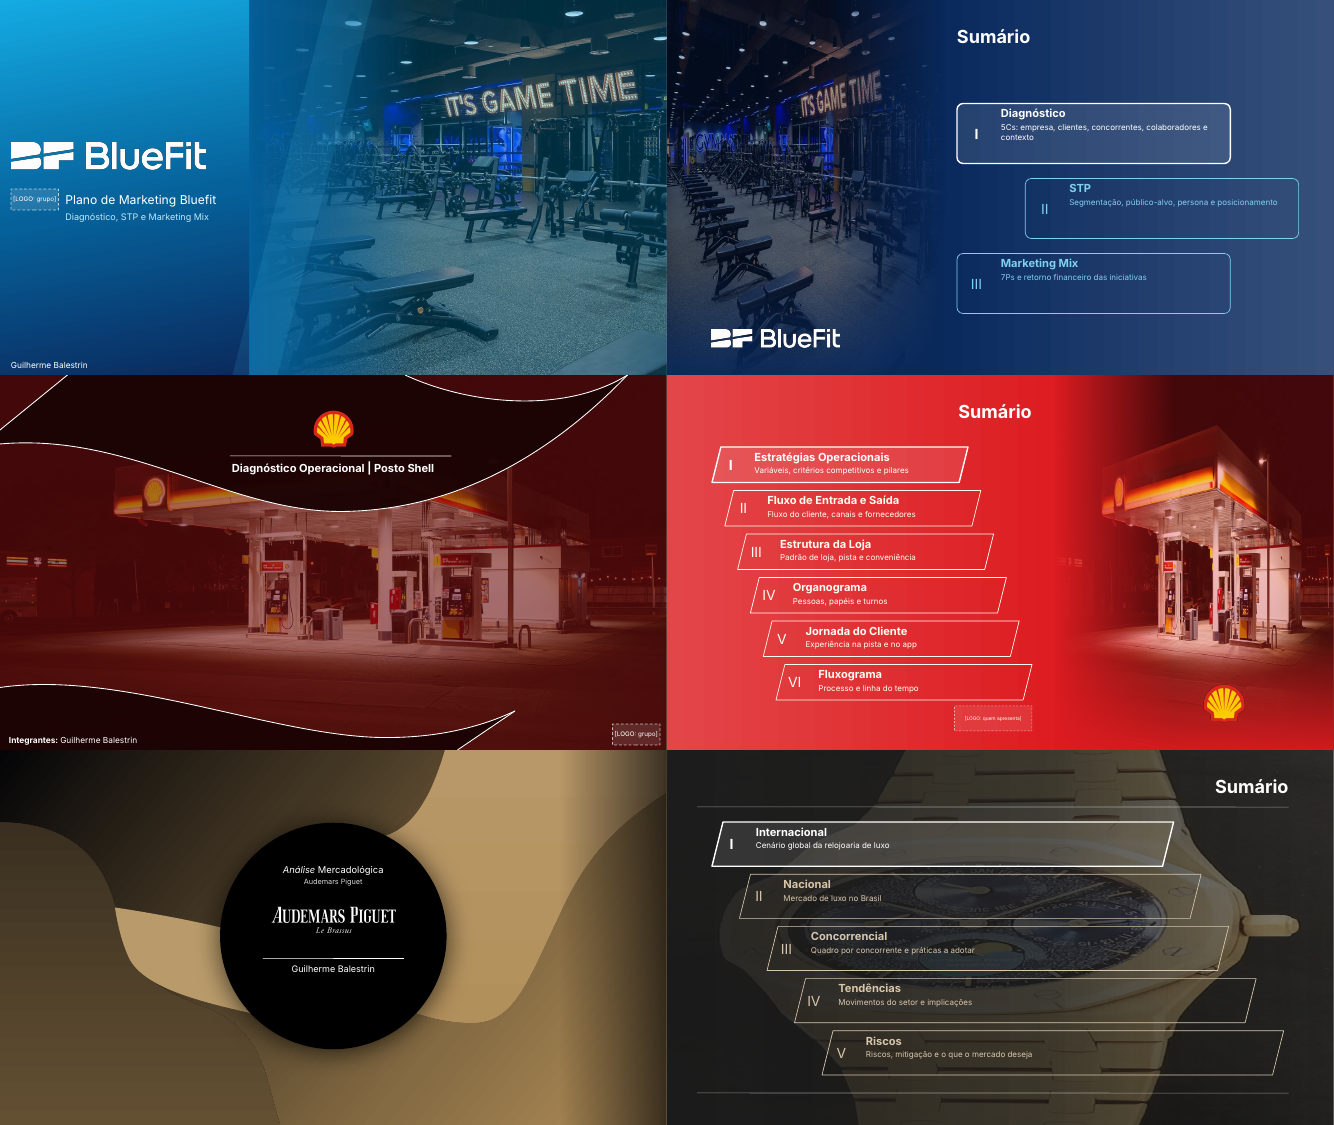
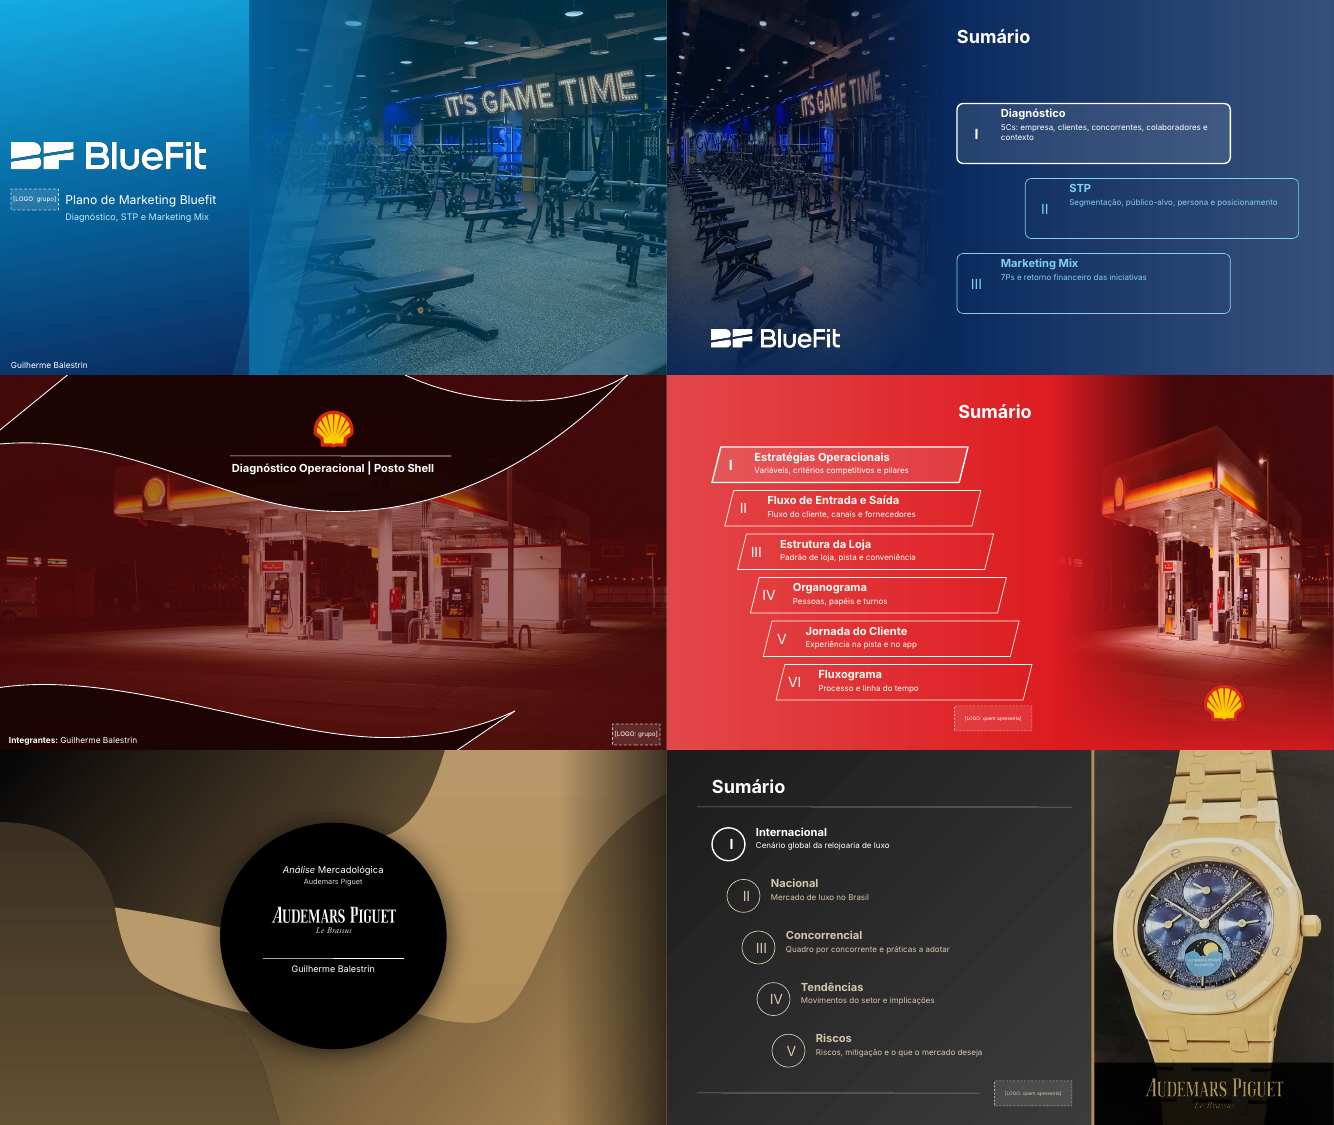
Sumario circulos liberado: montagem aprovada do Audemars Piguet vira fotoDireitaFio
- 'circulos' volta ao sorteio (o sumario AP em circulos foi aprovado)
- sumario_cores.js: composicao fotoDireitaFio (foto recortada a direita,
  fio fino na cor dominante, logo em faixa escura), so com circulos
- sorteio.js: fotoDireitaFio com peso dobrado quando o estilo e circulos;
  build recusa fotoDireitaFio com pilulas (reprovado no Bluefit)
- referencia aprovada em assets/referencias/sumario/aprovado_ap_circulos_foto.jpg
- contraexemplos: sumario_reprovado_bluefit_pilulas_foto.png e
  sumario_reprovado_ap_fotofundo.png
- SKILL.md, sumarios_popups, vetos, aprendizados e INDICE atualizados
- validar_sumarios.js cobre circulos (1235 geometrias)
- testes_capas_sumarios: AP restaurado para a versao aprovada

Claude-Session: https://claude.ai/code/session_0164y2FuiCoqw85EA6DjKRYY

Changed region(s): [[0.5225, 0.6533, 1.0, 1.0], [0.5225, 0.6844, 0.584, 0.7156]]

diff --git a/scripts/sumario_cores.js b/scripts/sumario_cores.js
@@ -51,12 +51,16 @@ module.exports = function ({ pres, COR, F, formas, tom, cfg }) {
   // fotoEsquerda (imagem a esquerda, itens em arco a direita: kepl3_p010, ex_sumario), fotoDireita (itens a esquerda),
   // fotoFundo (foto em tela cheia com veu em degrade: mabg_p002) e cheio (sem foto: agrion_p002). A foto nunca termina
   // em corte seco: um degrade com transparencia a dissolve no fundo, e o fundo do lado da foto tem a mesma cor do degrade.
-  const COMPOSICOES = ['fotoEsquerda', 'fotoDireita', 'fotoFundo', 'cheio'];
+  // fotoDireitaFio (APROVADO 23/11/2026, deck Audemars Piguet com circulos: "tava perfeito"): foto recortada na direita a partir de
+  // x 8,55, fio fino vertical na cor dominante, logo da empresa numa faixa escura no pe da foto. Ver assets/referencias/sumario/aprovado_ap_circulos_foto.jpg.
+  // Com pilulas a mesma montagem foi REPROVADA (Bluefit): por isso o sorteio so a combina com circulos.
+  const COMPOSICOES = ['fotoEsquerda', 'fotoDireita', 'fotoDireitaFio', 'fotoFundo', 'cheio'];
   const XF_D = 7.75, XF_E = 5.55, FADE = 2.4;
   function geo(o) {
     const comp = o.foto ? o.composicao : 'cheio', m = o.moldura;
     const topo = m.titulo === 'nenhum' ? 0.75 : 1.44, base = m.logo || m.fios ? 6.5 : 6.9;
     if (comp === 'fotoDireita') return { comp, x0: 0.9, x1: XF_D - 0.45, topo, base };
+    if (comp === 'fotoDireitaFio') return { comp, x0: 0.9, x1: 8.55 - 0.45, topo, base };
     if (comp === 'fotoEsquerda') return { comp, x0: XF_E + 0.25, x1: W - 0.7, topo, base };
     return { comp, x0: 0.9, x1: W - 0.9, topo, base };
   }
@@ -67,6 +71,18 @@ module.exports = function ({ pres, COR, F, formas, tom, cfg }) {
   }
   function fundo(s, o, g) {
     if (g.comp === 'cheio') { grad(s, { x: 0, y: 0, w: W, h: H }, 45, [[0, P.a, 100], [100, P.b, 100]], 'sumesc'); return; }
+    if (g.comp === 'fotoDireitaFio') {   // montagem aprovada (AP): recorte limpo com fio, sem degrade
+      const XL = 8.55;
+      grad(s, { x: 0, y: 0, w: W, h: H }, 45, [[0, P.a, 100], [100, P.b, 100]], 'sumesc');
+      s.addImage({ path: o.foto, x: XL, y: 0, w: W - XL, h: H, sizing: { type: 'cover', w: W - XL, h: H }, objectName: 'SUM_foto' });
+      s.addShape(S.RECTANGLE, { x: XL - 0.06, y: 0, w: 0.06, h: H, fill: { color: o.corFio || COR.dom }, line: { type: 'none' }, objectName: 'SUM_fio_lateral' });
+      if (o.logoEmpresa && fs.existsSync(o.logoEmpresa)) {
+        s.addShape(S.RECTANGLE, { x: XL, y: H - 1.25, w: W - XL, h: 1.25, fill: { color: '000000', transparency: 12 }, line: { type: 'none' }, objectName: 'SUM_faixa_logo' });
+        const b = fs.readFileSync(o.logoEmpresa), ar = b.readUInt32BE(16) / b.readUInt32BE(20), lw = Math.min(W - XL - 0.9, 0.8 * ar), lh = lw / ar;
+        s.addImage({ path: o.logoEmpresa, x: XL + (W - XL - lw) / 2, y: H - 0.625 - lh / 2, w: lw, h: lh, objectName: 'SUM_logo_empresa' });
+      }
+      return;
+    }
     if (g.comp === 'fotoFundo') {
       s.addImage({ path: o.foto, x: 0, y: 0, w: W, h: H, sizing: { type: 'cover', w: W, h: H }, objectName: 'SUM_foto' });
       grad(s, { x: 0, y: 0, w: W, h: H }, 0, [[0, P.a, 94], [55, P.a, 82], [100, P.a, 45]], 'sumveu');   // denso onde esta o texto

diff --git a/scripts/sorteio.js b/scripts/sorteio.js
@@ -20,10 +20,11 @@ const OPCOES = {
   corCabecalho: ['dom', 'escuro'],
 };
 // sumarios de slide cheio, na cor fixa escolhida da paleta do projeto (sumario_cores.js), todos fieis a uma referencia (orizon_p012, agrion_p002, mabg_p002, vivara_p007)
-// VETADOS pelo usuario: 'cartoes' (16/11/2026: colunas altas so com numero e titulo, quase tudo vazio) e 'circulos' (22/11/2026: a
+// 'circulos' VOLTOU em 23/11/2026: o sumario Audemars Piguet em circulos com foto recortada a direita foi aprovado ("tava perfeito").
+// VETADO pelo usuario: 'cartoes' (16/11/2026: colunas altas so com numero e titulo, quase tudo vazio). Historico: 'circulos' foi vetado em 22/11/2026 (a
 // referencia orizon_p012 que deu origem a ele foi reprovada). Nao sao sorteados nem aceitos no config.
-const SUMARIOS = ['pilulas', 'paralelogramos'];
-const SUMARIOS_VETADOS = ['cartoes', 'circulos'];
+const SUMARIOS = ['pilulas', 'paralelogramos', 'circulos'];
+const SUMARIOS_VETADOS = ['cartoes'];
 // Feedback 23/11/2026: a foto do sumario nao fica sempre a direita, e titulo "Sumario", fios em cima/embaixo e logo nao sao obrigatorios.
 // Sorteados uma vez por deck (gravados em estilo_deck.json) e mantidos em todas as transicoes. Sem foto, a composicao vira 'cheio'.
 const COMPOSICOES_SUMARIO = ['fotoEsquerda', 'fotoDireita', 'fotoFundo'];
@@ -65,8 +66,11 @@ module.exports = function sortear(cfg, PROIB, cwd = process.cwd()) {
   r.origem.sumarios = pedido ? 'informado' : (r.estiloSumario === antigo ? 'mantido/migrado' : 'sorteado');
   r.todosSumarios = SUMARIOS;
   const comp = cfg.composicaoSumario;
-  if (comp && !COMPOSICOES_SUMARIO.concat('cheio').includes(comp)) throw new Error('composicaoSumario desconhecida: ' + comp + '. Use: ' + COMPOSICOES_SUMARIO.join(', ') + ', cheio');
-  r.composicaoSumario = comp || (COMPOSICOES_SUMARIO.includes(salvo.composicaoSumario) ? salvo.composicaoSumario : pick(COMPOSICOES_SUMARIO));
+  if (comp && !COMPOSICOES_SUMARIO.concat('cheio', 'fotoDireitaFio').includes(comp)) throw new Error('composicaoSumario desconhecida: ' + comp + '. Use: ' + COMPOSICOES_SUMARIO.join(', ') + ', cheio');
+  // fotoDireitaFio so com circulos (aprovado no AP; com pilulas foi reprovado no Bluefit); com circulos ela tem peso dobrado no sorteio
+  const compValidas = r.estiloSumario === 'circulos' ? COMPOSICOES_SUMARIO.concat('fotoDireitaFio', 'fotoDireitaFio') : COMPOSICOES_SUMARIO;
+  if (comp === 'fotoDireitaFio' && r.estiloSumario !== 'circulos') throw new Error('composicaoSumario fotoDireitaFio so com estiloSumario circulos (com pilulas foi reprovada).');
+  r.composicaoSumario = comp || (compValidas.includes(salvo.composicaoSumario) ? salvo.composicaoSumario : pick(compValidas));
   const ms = salvo.molduraSumario && TITULOS_SUMARIO.includes(salvo.molduraSumario.titulo) ? salvo.molduraSumario : null;
   r.molduraSumario = Object.assign({}, ms || { titulo: pick(TITULOS_SUMARIO), fios: Math.random() < 0.35, logo: Math.random() < 0.5 }, cfg.molduraSumario || {});
   if (!TITULOS_SUMARIO.includes(r.molduraSumario.titulo)) throw new Error('molduraSumario.titulo: ' + TITULOS_SUMARIO.join(', '));

diff --git a/scripts/validar_sumarios.js b/scripts/validar_sumarios.js
@@ -21,7 +21,7 @@ for(const style of engine.ESTILOS){
   }
 }
 // composicoes com foto e moldura opcional (23/11/2026): toda combinacao precisa caber sem sobrepor
-for(const style of ['pilulas','paralelogramos'])for(const composicao of engine.COMPOSICOES)
+for(const style of ['pilulas','paralelogramos','circulos'])for(const composicao of engine.COMPOSICOES)
   for(const titulo of ['esquerda','centro','direita','nenhum'])for(const logo of [true,false])for(let n=1;n<=10;n++){
     const g=engine.geo({foto:composicao==='cheio'?null:'x.jpg',composicao,moldura:{titulo,fios:false,logo}});
     const rects=engine.layout(style,n,g);

diff --git a/SKILL.md b/SKILL.md
@@ -153,13 +153,13 @@ Deck de 26 paginas construido slide a slide; cada regra abaixo veio de uma respo
 
 ## Sorteio e sumários
 
-`moldura.js` sorteia uma vez por projeto a barra lateral e a identidade tipográfica permitida. O cabeçalho Insper Jr é sempre marcador. O sumário tem UM modelo, salvo em `estilo_deck.json` e `identidade_visual.json`; não um conjunto para alternar. `estiloSumario` aceita `pilulas` ou `paralelogramos`. **`cartoes` (16/11/2026) e `circulos` (22/11/2026) foram vetados pelo usuário**: não são sorteados e o build dá erro se forem pedidos. Projeto antigo salvo com um deles é sorteado de novo entre os permitidos. Configuração legada `estilosSumario` aceita somente uma opção. Projeto novo pode mudar; dentro da apresentação, manter.
+`moldura.js` sorteia uma vez por projeto a barra lateral e a identidade tipográfica permitida. O cabeçalho Insper Jr é sempre marcador. O sumário tem UM modelo, salvo em `estilo_deck.json` e `identidade_visual.json`; não um conjunto para alternar. `estiloSumario` aceita `pilulas`, `paralelogramos` ou `circulos`. **`cartoes` (16/11/2026) foi vetado pelo usuário**: não é sorteado e o build dá erro se for pedido. **`circulos` voltou em 23/11/2026**: tinha sido vetado em 22/11 junto com a referência orizon_p012, mas o sumário Audemars Piguet em círculos foi aprovado ("tava perfeito"; `assets/referencias/sumario/aprovado_ap_circulos_foto.jpg`). Configuração legada `estilosSumario` aceita somente uma opção. Projeto novo pode mudar; dentro da apresentação, manter.
 
 Antes do primeiro sumário, abrir duas referências. As próximas transições reutilizam o mesmo modelo; só o destaque da etapa avança. `deck.sumario('Etapa')` calcula os itens a partir do fluxo. Títulos e descrições devem caber no tamanho fixo; encurtar o texto, não reduzir a fonte. Mais de seis etapas usam uma grade de duas colunas sem interseções, ou conteúdo dividido com o mesmo modelo e aprovação do escopo quando isso mudar a quantidade de slides.
 
 O primeiro fundo, imagem e tratamento de cor do sumário ficam fixos no deck. Escolher exclusivamente dentro da paleta 60/30/10. Não variar fundo por seção. Detalhes em `references/sumarios_popups.md`.
 
-**Foto, composição e moldura do sumário (feedback de 23/11/2026).** Com foto do assunto (`imagemSumario` no config ou `deck.sumario(secao, { imagem })`; logo da empresa vem de `logos.analisada`), a composição é sorteada uma vez por deck entre `fotoEsquerda` (foto à esquerda, itens em arco à direita, como kepl3_p010 e ex_sumario), `fotoDireita` (itens à esquerda) e `fotoFundo` (foto em tela cheia com véu em degradê, como mabg_p002); sem foto, `cheio`. **A foto não fica obrigatoriamente à direita.** A passagem entre texto e foto é sempre suave: a foto se dissolve no fundo por um degradê com transparência, e o fundo termina exatamente na cor desse degradê (nunca corte seco, fio vertical colorido ou faixa recortada para a logo). **Título "Sumário", fios em cima e embaixo e logo de quem apresenta não são obrigatórios:** `molduraSumario = { titulo: 'esquerda' | 'centro' | 'direita' | 'nenhum', fios, logo }` é sorteado uma vez e mantido em todas as transições (o título pode ser outro texto, como "Agenda"). Config `composicaoSumario` / `molduraSumario` só quando o usuário pedir. O sumário Bluefit de 23/11 (pílulas à esquerda + foto recortada à direita com fio azul e faixa preta da logo) foi reprovado: não repetir essa montagem.
+**Foto, composição e moldura do sumário (feedback de 23/11/2026).** Com foto do assunto (`imagemSumario` no config ou `deck.sumario(secao, { imagem })`; logo da empresa vem de `logos.analisada`), a composição é sorteada uma vez por deck entre `fotoEsquerda` (foto à esquerda, itens em arco à direita, como kepl3_p010 e ex_sumario), `fotoDireita` (itens à esquerda) e `fotoFundo` (foto em tela cheia com véu em degradê, como mabg_p002); sem foto, `cheio`. Com `circulos` entra também, com peso dobrado, `fotoDireitaFio`: a montagem APROVADA do deck Audemars Piguet (círculos à esquerda, título "Sumário" à esquerda com fios, foto recortada a partir de x 8,55 com fio fino vertical na cor dominante e logo da empresa numa faixa escura no pé da foto). Ela só vale com círculos: a mesma montagem com pílulas (Bluefit) foi reprovada, e o build recusa a combinação. **A foto não fica obrigatoriamente à direita.** Nas demais composições a passagem entre texto e foto é suave: a foto se dissolve no fundo por um degradê com transparência, e o fundo termina exatamente na cor desse degradê (nunca corte seco, fio vertical colorido ou faixa recortada para a logo). **Título "Sumário", fios em cima e embaixo e logo de quem apresenta não são obrigatórios:** `molduraSumario = { titulo: 'esquerda' | 'centro' | 'direita' | 'nenhum', fios, logo }` é sorteado uma vez e mantido em todas as transições (o título pode ser outro texto, como "Agenda"). Config `composicaoSumario` / `molduraSumario` só quando o usuário pedir. Contraexemplos de 23/11 (abrir antes do primeiro sumário): `assets/contraexemplos/sumario_reprovado_bluefit_pilulas_foto.png` (pílulas + foto recortada com fio e faixa: "não gostei") e `sumario_reprovado_ap_fotofundo.png` (paralelogramos sobre o relógio em tela cheia com véu: "ficou um lixo"; foto de produto vertical não serve de fundo cheio).
 
 ## Vetos tipograficos e cabecalho (Insper Jr)
 

diff --git a/references/aprendizados.md b/references/aprendizados.md
@@ -12,7 +12,8 @@ Leia **sempre**, antes de decidir a organizacao de um slide. A skill nao aprende
 
 ## Preferencias consolidadas
 
-- **Teste de capas e sumarios Bluefit, Posto Shell e Audemars Piguet (23/11/2026):** capas "aceitaveis" (foto_lateral, ondas_foto, circulo com logos e fotos reais). Sumario Bluefit reprovado ("nao gostei"): pilulas a esquerda + foto recortada a direita com fio azul e faixa preta para a logo. Falas: "nao eh obrigatorio fazer nessa ordem de imagem na direita e os topicos na esquerda da para fazer de outras formas iguais ta na referencia"; "nao ha uma transicao smooth entre a parte de texto e a imagem"; e reforcou o pedido anterior: "nao ser obrigatorio as linhas em cima e embaixo e estar escrito sumario e ter a logo". Aplicado em `sumario_cores.js` (composicoes fotoEsquerda/fotoDireita/fotoFundo/cheio com degrade de dissolucao; moldura opcional), `sorteio.js` (`composicaoSumario`, `molduraSumario`), `moldura.js` (`imagemSumario`, logo de `logos.analisada`) e `validar_sumarios.js` (675 geometrias).
+- **Teste de capas e sumarios Bluefit, Posto Shell e Audemars Piguet (23/11/2026):** capas "aceitaveis" (foto_lateral, ondas_foto, circulo com logos e fotos reais). Sumario Bluefit reprovado ("nao gostei"): pilulas a esquerda + foto recortada a direita com fio azul e faixa preta para a logo. Falas: "nao eh obrigatorio fazer nessa ordem de imagem na direita e os topicos na esquerda da para fazer de outras formas iguais ta na referencia"; "nao ha uma transicao smooth entre a parte de texto e a imagem"; e reforcou o pedido anterior: "nao ser obrigatorio as linhas em cima e embaixo e estar escrito sumario e ter a logo". Aplicado em `sumario_cores.js` (composicoes fotoEsquerda/fotoDireita/fotoFundo/cheio com degrade de dissolucao; moldura opcional), `sorteio.js` (`composicaoSumario`, `molduraSumario`), `moldura.js` (`imagemSumario`, logo de `logos.analisada`) e `validar_sumarios.js`.
+- **Sumario AP aprovado, refeito reprovado (23/11/2026):** sobre o sumario Audemars Piguet em circulos com foto do relogio recortada a direita, fio dourado e logo na faixa escura: "o da audemars piguet tava perfeito antes"; sobre a versao refeita (paralelogramos sobre o relogio em tela cheia com veu): "agora ficou um lixo". `circulos` voltou a ser permitido; a montagem virou a composicao `fotoDireitaFio` (so com circulos, peso dobrado no sorteio); print aprovado em `assets/referencias/sumario/aprovado_ap_circulos_foto.jpg`, reprovados em `assets/contraexemplos/sumario_reprovado_*.png`. Nao trocar um sumario aprovado ao aplicar feedback de outro.
 
 - **Deck Carrefour Operacional (22/11/2026), slide a slide:** (1) revelacao: "tenta fazer um efeito meio q sanfonado q conecta a parte da piramide [...] com o card da direita" e "o efeito do pop-up nao esta 100% cobrindo as outras partes [...] tem q sobrepor individualmente cada elemento"; depois "ajustar as cores [...] e a transicao [...] deixar mais smooth e as cores conectadas" -> `N.sanfonaDegrade` e `piramideFacetada({ ativo })`; (2) "coloca a piramide um pouco mais para baixo q fica mais centralizado"; (3) equacao de canais com colunas coloridas: "essa nao seria a melhor organizacao com esses cards e esses fundos" -> fotos + chave convergindo para o total; (4) quadro comparativo: "muito desaprovado [...] essa estrutura de tabela ta bem generica [...] substitua os nomes das empresas pela logo"; trocado por cards: "nao faz sentido, realmente tem q ser uma tabela, mas tem q formatar ela para ficar menos ai" + exemplo do usuario -> `N.tabelaLimpa`; (5) jornada: "colocar alguma linha [...] subindo e descendo ate o meio das formas e conectando elas para ver q eh um processo", depois "vai ter uma imagem ali e talvez nao fique visivel" e "ficou um pouco justo com a parte de baixo" -> `N.linhaProcesso` abaixo das fotos; (6) capa: "pq vc nao coloca a imagem e a logo do carrefour ja", depois "esquece esse negocio da imagem continua gerando os slides". Aprovados sem ajuste: visao geral com card grande, funil + mockup de site, cadeia + fotos + mapa, planta isometrica com revelacao e lupa, organograma com sobreposicoes, jornada digital em blueprint, fluxograma em raias e prioridades por recorrencia. Detalhe e regras: SKILL.md, "Aprendizados do deck Carrefour".
 

diff --git a/references/sumarios_popups.md b/references/sumarios_popups.md
@@ -19,11 +19,11 @@ Regra de todas as referências: **o item da vez fica aceso e os outros esmaecido
 | Recomendação | Nubank p. 39 | monte com `tiraFatos`/`numeroTexto`/`faixaConclusao` (preço atual, alvo, upside, TIR, MOIC) |
 
 Estilos de `estilo` (todos **slide cheio, na cor fixa escolhida da paleta do projeto**: `fundo: 'escuro' (padrao) | 'claro' | 'dominante' | 'destaque' | hex`, `fundo2` para degrade, ou `fundoSumario` no config; em `scripts/sumario_cores.js`):
-- `'circulos'`: **VETADO pelo usuario em 22/11/2026** (a referencia Orizon p012 foi reprovada). Nao usar.
+- `'circulos'`: numerais romanos em circulos de contorno fino, escalonados. Vetado em 22/11/2026 e **liberado de novo em 23/11/2026**: o sumario Audemars Piguet (circulos + foto recortada a direita com fio e faixa da logo, `fotoDireitaFio`) foi aprovado como "perfeito". Referencia: `aprovado_ap_circulos_foto.jpg`.
 - `'pilulas'` (Agrion p002): pilulas de contorno fino escalonadas, circulo com numeral a esquerda.
 - `'paralelogramos'` (M&A / mabg p002): barras inclinadas escalonadas, numeral e titulo em italico; aceita `imagem` de fundo (escurecida).
 - `'cartoes'` (Vivara p007): ate 5 cartoes retos 01/02/03 lado a lado; o da vez em branco, os demais so contorno.
-**Composição e moldura (23/11/2026):** a foto do assunto entra em `fotoEsquerda`, `fotoDireita` ou `fotoFundo` (sorteado; sem foto, `cheio`), sempre dissolvida no fundo por degradê, sem corte seco. Título "Sumário" (esquerda, centro, direita ou nenhum), fios em cima e embaixo e logo de quem apresenta são opcionais e sorteados uma vez por deck (`molduraSumario`). A logo da empresa analisada (`logos.analisada`) fica sobre a foto, numa sombra em degradê, sem faixa recortada. Referências: kepl3_p010 e ex_sumario (imagem à esquerda), mabg_p002 (foto de fundo), agrion_p002 (título grande à direita), tech_p004 (sem fios).
+**Composição e moldura (23/11/2026):** a foto do assunto entra em `fotoEsquerda`, `fotoDireita` ou `fotoFundo` (sorteado; sem foto, `cheio`), sempre dissolvida no fundo por degradê, sem corte seco. Título "Sumário" (esquerda, centro, direita ou nenhum), fios em cima e embaixo e logo de quem apresenta são opcionais e sorteados uma vez por deck (`molduraSumario`). A logo da empresa analisada (`logos.analisada`) fica sobre a foto, numa sombra em degradê, sem faixa recortada (exceto em `fotoDireitaFio`, so com circulos, que e a montagem aprovada do AP com faixa escura). Reprovados: pilulas + foto recortada (Bluefit) e paralelogramos sobre foto de produto em tela cheia (AP fotoFundo); prints em `assets/contraexemplos/sumario_reprovado_*.png`. Referências: kepl3_p010 e ex_sumario (imagem à esquerda), mabg_p002 (foto de fundo), agrion_p002 (título grande à direita), tech_p004 (sem fios).
 Item da vez na cor de texto cheia com contorno grosso; os demais na dominante ajustada ao fundo (contraste >= 4 em fundo escuro, >= 3 em fundo claro). Sem `estilo`, `deck.sumario` reutiliza o modelo único salvo no projeto. Só o item ativo muda; paleta, fundo, posições e tipografia permanecem. A lista vem de `fluxos.js`.
 
 Slides de seção escuros só com título (Appendix, Q&A) seguem o padrão de divisores da capa; não são sumário.

diff --git a/references/vetos_e_recomendacao.md b/references/vetos_e_recomendacao.md
@@ -24,7 +24,7 @@ Lido quando o deck tiver tabela, conector, icone, sumario ou slide final de reco
    - itens **escalonados** (cada um deslocado ~1,2 pol para a direita e ~1,4 pol para baixo), numeral romano de 20pt dentro de um circulo de contorno fino (~1 pol) ou de um paralelogramo, e um fio fino saindo da base do circulo ate a borda direita
    - titulo da secao em 16pt negrito + uma linha de apoio em 13pt italico com 2 palavras-chave em negrito (a frase diz o que a secao conclui, nao o nome dela)
    - item da vez em branco com contorno mais grosso; demais na dominante clareada (ex.: `7FA58C` para verde), sempre legiveis
-   - pedido de "sumario aleatorio": escolha uma destas variacoes cheias para todo o deck (pilulas escalonadas sobre fundo escuro de agrion_p002 ou paralelogramos sobre foto escurecida de mabg_p002; `cartoes` e `circulos` estao vetados), nunca entre os estilos brancos
+   - pedido de "sumario aleatorio": escolha uma destas variacoes cheias para todo o deck (pilulas escalonadas sobre fundo escuro de agrion_p002 ou paralelogramos sobre foto escurecida de mabg_p002; `cartoes` esta vetado; `circulos` voltou em 23/11/2026 com a montagem aprovada do AP), nunca entre os estilos brancos
    - os avisos do `qa_deck.py` de "fora da area util" e "sem titulo" nesse slide sao esperados
 6. **Slide de recomendacoes montado com componentes genericos** (vetado em 2026-11-11: "o ultimo slide ta muito cara de Claude"). O conjunto reprovado: tabela de frentes com texto nas celulas (Frente / Evidencia / Acao / Alavanca), `equacao` com blocos cinza e `[DADO]` em dois dos tres termos, `premissas` usado como painel de KPIs em chips, roadmap em chips com 3 fases de duas palavras ("0-6 m / 6-18 m / 18 m+") e `faixaConclusao` verde cheia no pe. Nenhum desses elementos prova nada; e texto arrumado em caixas. Como fazer:
    - cada recomendacao ancorada num **exhibit com dado real** (grafico nativo anotado, estrutura com `cadeia`, mapa, foto) que mostre o problema que ela resolve, ao lado de uma coluna curta "Acao proposta" (rotulo na cor + fio fino + 2 a 3 linhas de 8,5pt com palavras-chave em negrito)

diff --git a/assets/referencias/INDICE.md b/assets/referencias/INDICE.md
@@ -42,7 +42,7 @@ Escolha a pasta pelo que a MENSAGEM do slide pede, nao pelo assunto do deck de o
 
 ## 3. Sumarios (`sumario/`)
 
-agrion_p002, ijg5_p002, ijg7_p002, kepl3_p010, mabg_p002, tech_p004
+agrion_p002, aprovado_ap_circulos_foto (aprovado pelo usuario em 23/11/2026: circulos + foto recortada a direita), ijg5_p002, ijg7_p002, kepl3_p010, mabg_p002, tech_p004
 
 Detalhe de pop-up, faixa-pergunta e indice: `references/sumarios_popups.md`.
 
